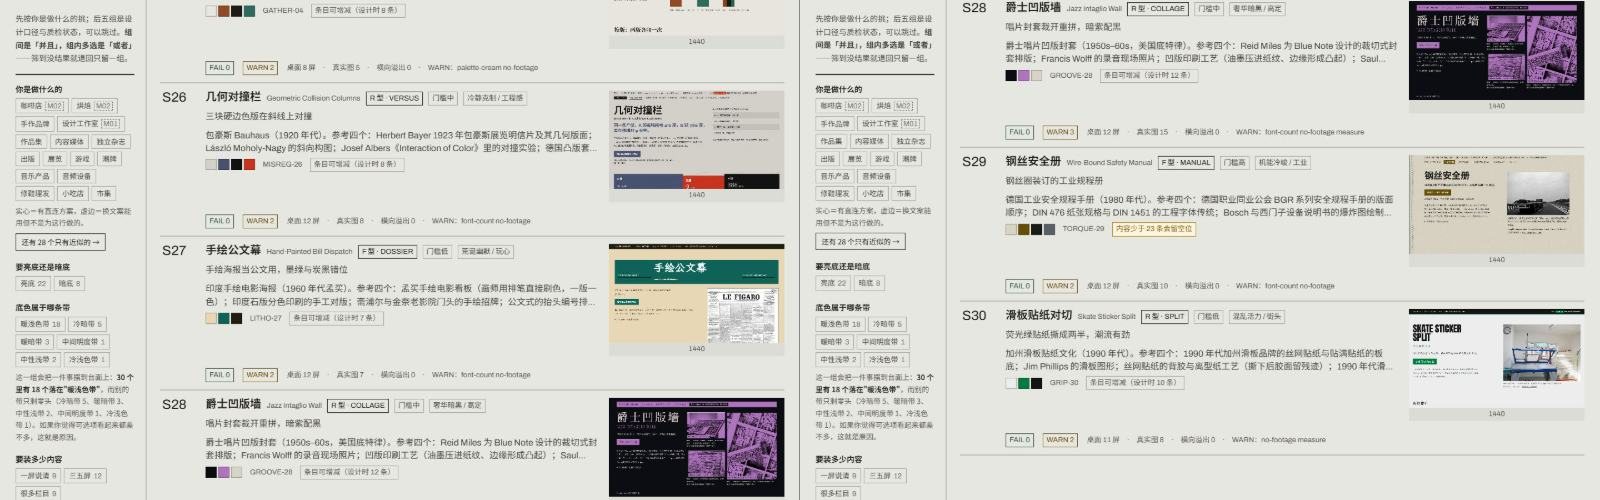
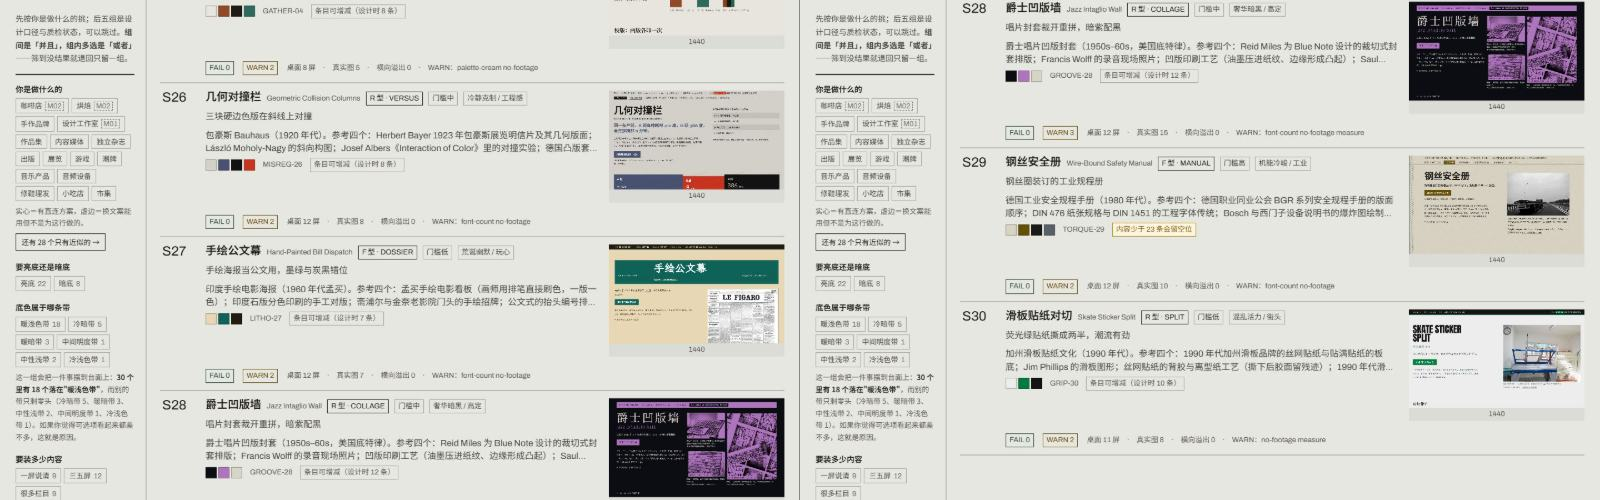
改首屏第一句：从同行术语换成店主能懂的收益
改前 H1 是「三十个案，一条渲染口径」——「渲染口径」是内部术语，店主看不懂；
他也看不出这个站点对他有什么用。而产品的核心动作是「复制提示词」，
旧文案一个字没提。

  H1     三十个案，一条渲染口径  →  挑一个风格，带走提示词
  label  网站设计风格方案 · 选型台 →  30 个网站风格 · 选一个带走提示词
  claim  每个方案都有可运行原型、同一条命令渲染…  →
         每个风格都配一个能点开跑的原型（桌面／平板／手机三档真截图）。
         看中了就复制提示词，粘进 ChatGPT / Claude / v0 让它照做——
         色值、字号、栏宽都是从该案 style.css 实测抽出来的。

H1 特意压到 10 个字（单行）。第一版写的是「挑一个风格，带走一段能让 AI 照着做的提示词」，
390 档折成两行，页头 259 → 286px，首卡底部 792 → 819，视口 844 只剩 25px 余量 ——
任何字体回退都会把它挤出视口。压回单行后三档页头高度与改前**完全一致**：

  1440  347px，首卡 431–708（视口 900，余量 193）
  768   287px，首卡 443–949（视口 1024，余量 75）
  390   259px，首卡 402–792（视口 844，余量 52）

也就是说这次改文案对布局零代价 —— 因为它没有增加任何行数。

没有改首屏结构（没把「你是做什么的」提为主导览）是有意的：44 个行业词里
只有 16 个有直连方案、28 个只有近似、另有 29 个连芯片都没有。拿它当唯一入口，
多数人第一次交互就得到「我们没有这个」。行业筛选留在左栏。

七个闸门 EXIT=0，probe-ui 8/8，选型台重渲染 FAIL=0。

diff --git a/prototypes/_selection/index.html b/prototypes/_selection/index.html
@@ -36,8 +36,8 @@
 
 <header class="mast">
   <div class="mast-id">
-    <p class="mast-label">网站设计风格方案 · 选型台</p>
-    <h1>三十个案，一条渲染口径</h1>
+    <p class="mast-label">30 个网站风格 · 选一个带走提示词</p>
+    <h1>挑一个风格，带走提示词</h1>
     <p class="mast-wizard"><a href="wizard.html">筛不出来？走选型向导：五个问题给出 3 个推荐 + 3 个明确排除 →</a></p>
     <!-- 页头折叠块（2026-10-28，390×844 首屏实测）────────────────────────────
          改前实测（CDP，390×844，dsf 2，滚动到 top=0）：
@@ -66,7 +66,7 @@
          中间用 · 分隔 —— 结构上等价于一个两行的目录。 -->
     <details class="mast-fold" id="mast-fold" open>
       <summary class="mast-fold-sum">这个图集是什么 · 想要现成模板去哪</summary>
-      <p class="mast-claim">每个方案都有一个可运行的原型，全部用同一条命令、同一套视口（桌面 1440×900、平板 768×1024、手机 390×844）渲染，闸门结果与截图都在这里摊开——选之前先看它实际长成什么样。</p>
+      <p class="mast-claim">每个风格都配一个能点开跑的原型（桌面／平板／手机三档真截图）。看中了就复制提示词，粘进 ChatGPT / Claude / v0 让它照做——色值、字号、栏宽都是从该案 <code>style.css</code> 实测抽出来的。</p>
     <!-- 模板出口：2026-10-25 从 rail 第 11 组（「怎么用」块里的一行小字）移到这里。
          原因：实测 1440×900 下它原位置 top=2199 / bottom=2313，**首屏曝光为 0**
          （首屏完整可见的筛选组只有 3/11，它在第 11 组之后），而它是"不想挑、只想拿走一个

diff --git a/prototypes/_selection/self-gate.js b/prototypes/_selection/self-gate.js
@@ -1,7 +1,7 @@
 // 由 render-scheme.mjs 生成，勿手改。选型台自身的闸门结果。
 // 生成时机：node prototypes/_build/render-scheme.mjs _selection
 window.SELECTION_REPORT = {
- "at": "2026-11-09T11:03:06.001Z",
+ "at": "2026-11-09T22:22:47.227Z",
  "findings": [
   {
    "level": "WARN",
